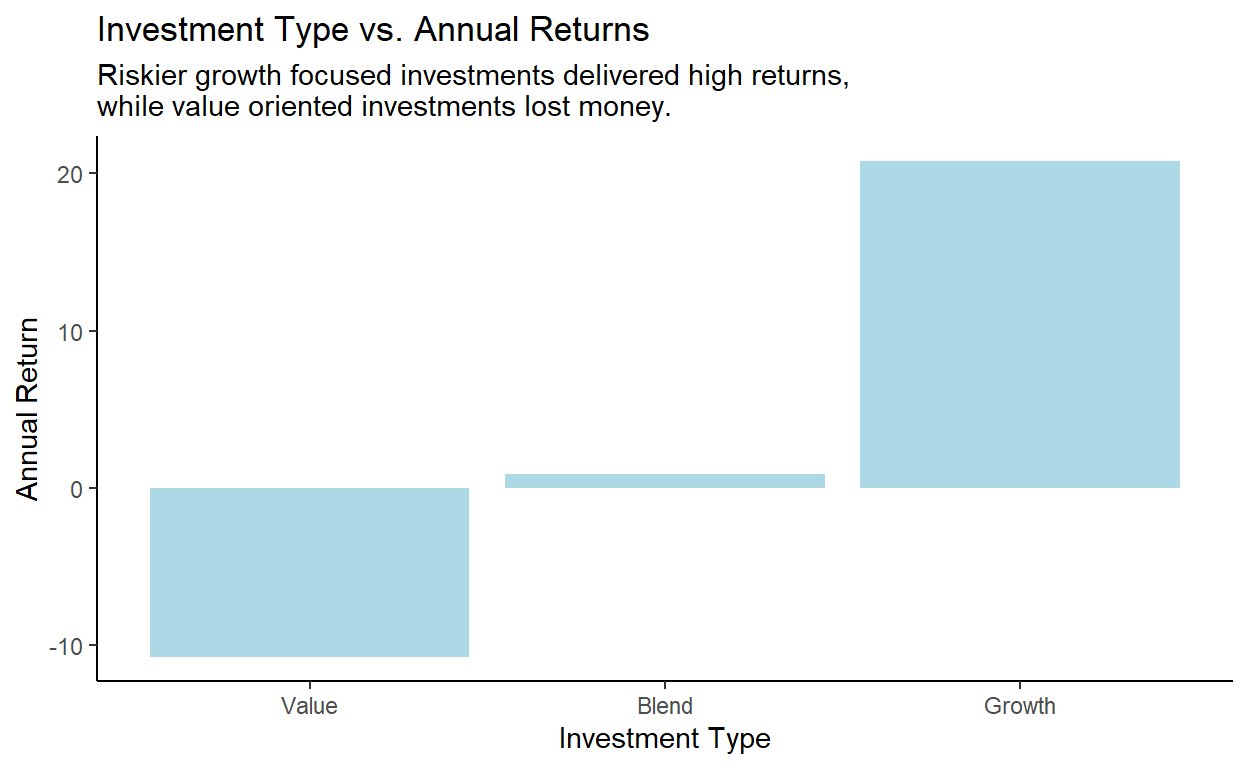
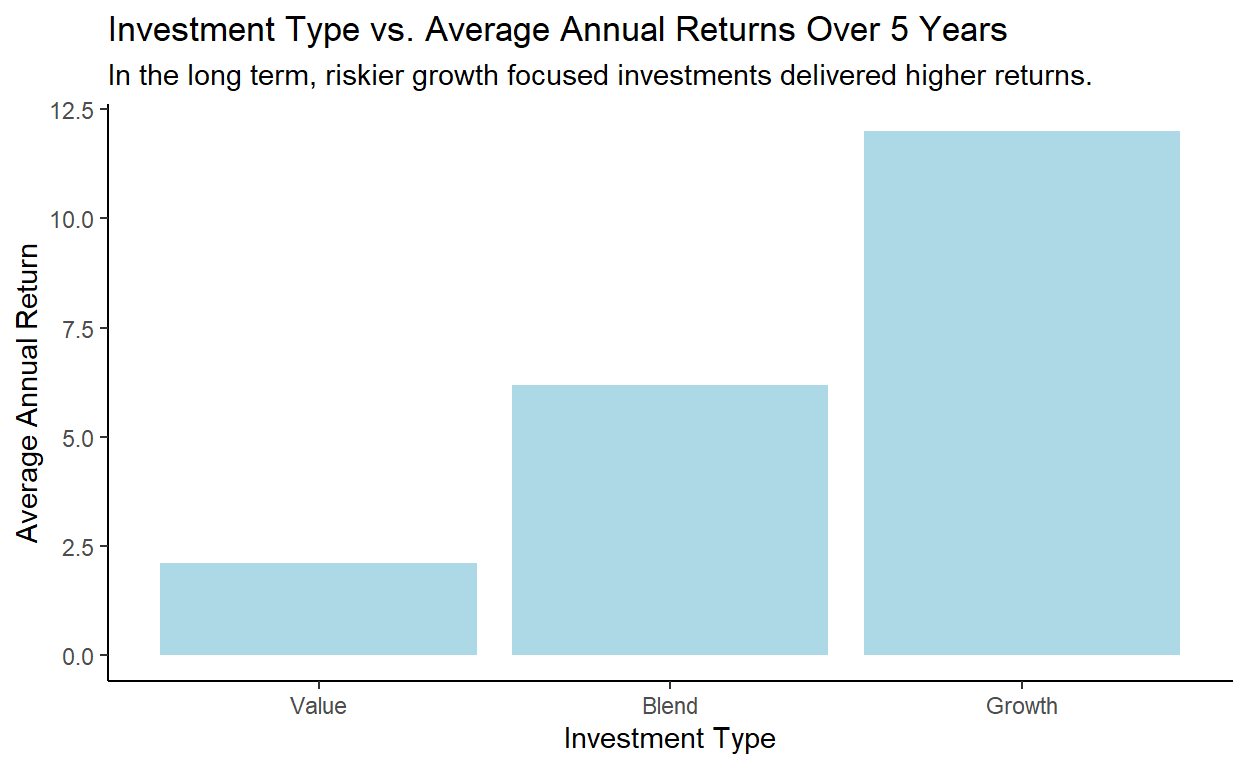
Updated analysis page

diff --git a/docs/funds.html b/docs/funds.html
@@ -86,9 +86,8 @@ code span.wa { color: #5e5e5e; font-style: italic; } /* Warning */
 </style>
 
   <!--radix_placeholder_meta_tags-->
-  <title>Exchange Traded Fund (ETF) Analysis: ETFs</title>
+  <title>Exchange Traded Fund (ETF) Analysis: Investment Analysis of Exchange Traded Funds (ETF)</title>
 
-  <meta property="description" itemprop="description" content="Work in progess."/>
 
 
   <!--  https://schema.org/Article -->
@@ -97,22 +96,20 @@ code span.wa { color: #5e5e5e; font-style: italic; } /* Warning */
   <meta name="article:author" content="Fahim Ahmed"/>
 
   <!--  https://developers.facebook.com/docs/sharing/webmasters#markup -->
-  <meta property="og:title" content="Exchange Traded Fund (ETF) Analysis: ETFs"/>
+  <meta property="og:title" content="Exchange Traded Fund (ETF) Analysis: Investment Analysis of Exchange Traded Funds (ETF)"/>
   <meta property="og:type" content="article"/>
-  <meta property="og:description" content="Work in progess."/>
   <meta property="og:locale" content="en_US"/>
   <meta property="og:site_name" content="Exchange Traded Fund (ETF) Analysis"/>
 
   <!--  https://dev.twitter.com/cards/types/summary -->
   <meta property="twitter:card" content="summary"/>
-  <meta property="twitter:title" content="Exchange Traded Fund (ETF) Analysis: ETFs"/>
-  <meta property="twitter:description" content="Work in progess."/>
+  <meta property="twitter:title" content="Exchange Traded Fund (ETF) Analysis: Investment Analysis of Exchange Traded Funds (ETF)"/>
 
   <!--/radix_placeholder_meta_tags-->
   <!--radix_placeholder_rmarkdown_metadata-->
 
   <script type="text/json" id="radix-rmarkdown-metadata">
-  {"type":"list","attributes":{"names":{"type":"character","attributes":{},"value":["title","description","author","date","output"]}},"value":[{"type":"character","attributes":{},"value":["ETFs"]},{"type":"character","attributes":{},"value":["Work in progess.\n"]},{"type":"list","attributes":{},"value":[{"type":"list","attributes":{"names":{"type":"character","attributes":{},"value":["name","url"]}},"value":[{"type":"character","attributes":{},"value":["Fahim Ahmed"]},{"type":"NULL"}]}]},{"type":"character","attributes":{},"value":["2021-06-24"]},{"type":"character","attributes":{},"value":["distill::distill_article"]}]}
+  {"type":"list","attributes":{"names":{"type":"character","attributes":{},"value":["title","author","date","output"]}},"value":[{"type":"character","attributes":{},"value":["Investment Analysis of Exchange Traded Funds (ETF)"]},{"type":"list","attributes":{},"value":[{"type":"list","attributes":{"names":{"type":"character","attributes":{},"value":["name","url"]}},"value":[{"type":"character","attributes":{},"value":["Fahim Ahmed"]},{"type":"NULL"}]}]},{"type":"character","attributes":{},"value":["2021-06-24"]},{"type":"character","attributes":{},"value":["distill::distill_article"]}]}
   </script>
   <!--/radix_placeholder_rmarkdown_metadata-->
   <!--radix_placeholder_navigation_in_header-->
@@ -2057,7 +2054,7 @@ code span.wa { color: #5e5e5e; font-style: italic; } /* Warning */
 <!--radix_placeholder_front_matter-->
 
 <script id="distill-front-matter" type="text/json">
-{"title":"ETFs","description":"Work in progess.","authors":[{"author":"Fahim Ahmed","authorURL":"#","affiliation":"&nbsp;","affiliationURL":"#","orcidID":""}],"publishedDate":"2021-06-24T00:00:00.000-04:00","citationText":"Ahmed, 2021"}
+{"title":"Investment Analysis of Exchange Traded Funds (ETF)","authors":[{"author":"Fahim Ahmed","authorURL":"#","affiliation":"&nbsp;","affiliationURL":"#","orcidID":""}],"publishedDate":"2021-06-24T00:00:00.000-04:00","citationText":"Ahmed, 2021"}
 </script>
 
 <!--/radix_placeholder_front_matter-->
@@ -2080,10 +2077,10 @@ code span.wa { color: #5e5e5e; font-style: italic; } /* Warning */
 <!--/radix_placeholder_site_before_body-->
 
 <div class="d-title">
-<h1>ETFs</h1>
+<h1>Investment Analysis of Exchange Traded Funds (ETF)</h1>
 <!--radix_placeholder_categories-->
 <!--/radix_placeholder_categories-->
-<p><p>Work in progess.</p></p>
+
 </div>
 
 <div class="d-byline">
@@ -2093,40 +2090,42 @@ code span.wa { color: #5e5e5e; font-style: italic; } /* Warning */
 </div>
 
 <div class="d-article">
-<p>What ETF manager would provide the highest returns?</p>
+<h1 id="what-etf-manager-would-provide-the-highest-returns">What ETF manager would provide the highest returns?</h1>
 <div class="layout-chunk" data-layout="l-body">
 <p><img src="funds_files/figure-html5/unnamed-chunk-2-1.png" width="624" /></p>
 </div>
-<p>Additional Finding</p>
+<p>ARK ETF Trust outperformed the other ETF funds in the past year. This fund focuses on disruptive innovation.</p>
+<h1 id="does-the-funds-yield-correlate-to-higher-returns">Does the fund’s yield correlate to higher returns?</h1>
 <div class="layout-chunk" data-layout="l-body">
 <p><img src="funds_files/figure-html5/unnamed-chunk-3-1.png" width="624" /></p>
 </div>
-<p>A fund’s yield (the income generated to investors through interest and dividends) has a negative correlation with returns. This is understandable, as often times a company the fund is invested in would offer dividends to make up for the lack of returns.</p>
+<p>A form of investing called dividend investing has been on the rise lately, with people investing to instead maximize dividends. A fund’s yield (the income generated to investors through interest and dividends) has a negative correlation with returns. This is understandable, as often times a company the fund is invested in would offer dividends to make up for the lack of returns.</p>
 <div class="layout-chunk" data-layout="l-body">
 
 </div>
+<h1 id="what-sector-performed-the-best-in-the-long-term">What sector performed the best in the long-term?</h1>
 <div class="layout-chunk" data-layout="l-body">
-
+<p><img src="funds_files/figure-html5/unnamed-chunk-5-1.png" width="624" /></p>
 </div>
+<p>In the shorterm many sectors were less than or near 0% returns. A few (most notably, the technology sector) surpassed the benchmark of the S&amp;P 500 (the blue line, ~10% returns), which tracks the performance of the top 500 companies.</p>
+<h1 id="what-sector-performed-the-best-in-the-long-term-1">What sector performed the best in the long-term?</h1>
 <div class="layout-chunk" data-layout="l-body">
 <p><img src="funds_files/figure-html5/unnamed-chunk-6-1.png" width="624" /></p>
 </div>
-<p>In the shorterm many sectors were less than or near 0% returns. A few (most notably, the technology sector) surpassed the benchmark of the S&amp;P 500, which tracks the performance of the top 500 companies.</p>
+<p>In the longterm most sectors had positive returns, with the exception being the Energy sector. However, compared to the average returns of the S&amp;P 500 (~10%), most sectors lagged behind with the exception being the technology sector. This shows that most ETFs often fail to meet the returns of the S&amp;P 500, and that it is often a good idea to research about the S&amp;P 500.</p>
+<h1 id="how-did-growth-etfs-compare-to-value-etfs-in-the-short-term">How did growth ETFs compare to value ETFs in the short-term?</h1>
 <div class="layout-chunk" data-layout="l-body">
 <p><img src="funds_files/figure-html5/unnamed-chunk-7-1.png" width="624" /></p>
 </div>
-<p>In the longterm most sectors had positive returns, with the exception being the Energy sector. However, compared to the average returns of the S&amp;P 500 (~10%), most sectors lagged behind with the exception being the technology sector. This shows that most ETFs often fail to meet the returns of the S&amp;P 500, and that it is often a good idea to research about the S&amp;P 500.</p>
+<p>Growth focused investing focuses on investments that have the future potential to outperform the overall market. Value focused investing focuses on investments that are currently undervalued, trading below what they are really worth. During the past year, value ETFs has negative returns while growth ETFs had positive returns.</p>
+<h1 id="how-did-growth-etfs-compare-to-value-etfs-in-the-long-term">How did growth ETFs compare to value ETFs in the long-term?</h1>
 <div class="layout-chunk" data-layout="l-body">
 <p><img src="funds_files/figure-html5/unnamed-chunk-8-1.png" width="624" /></p>
 </div>
-<div class="layout-chunk" data-layout="l-body">
-<p><img src="funds_files/figure-html5/unnamed-chunk-9-1.png" width="624" /></p>
-</div>
-<div class="layout-chunk" data-layout="l-body">
-
-</div>
-<p>Overall, the investments that have best performed in the past year were growth focused investments in the technology sector. Due to the pandemic, there was immense growth in the technology sector during the past year as people moved to a digital environment. However, the technology sector still outperformed the rest of the sectors during the past 5 years.</p>
-<p>Historical returns do not guarantee future returns.</p>
+<p>Averaging out the past 5 years, value ETFs had next to no returns allowing it to only hedge against inflation, while growth ETFs had significantly higher returns.</p>
+<h1 id="what-etf-investments-performed-the-best">What ETF investments performed the best?</h1>
+<p>Overall, the ETFs that have best performed in the past year were growth focused investments in the technology sector. Due to the pandemic, there was immense growth in the technology sector during the past year as people moved to a digital environment. However, the technology sector still outperformed the rest of the sectors during the past 5 years. ARK was a popular fund that created many high-performing ETFs, beating the returns of other funds.</p>
+<p><strong>Historical returns do not guarantee future returns.</strong> This analysis is meant for educational purposes only, and should not be taken as financial advice.</p>
 <div class="sourceCode" id="cb1"><pre class="sourceCode r distill-force-highlighting-css"><code class="sourceCode r"></code></pre></div>
 <!--radix_placeholder_article_footer-->
 <!--/radix_placeholder_article_footer-->

diff --git a/docs/index.html b/docs/index.html
@@ -86,14 +86,14 @@ code span.wa { color: #5e5e5e; font-style: italic; } /* Warning */
 </style>
 
   <!--radix_placeholder_meta_tags-->
-  <title>Exchange Traded Fund (ETF) Analysis: Exchange Traded Fund (ETF) Investment Analysis</title>
+  <title>Exchange Traded Fund (ETF) Analysis: Investment Analysis of Exchange Traded Funds (ETF)</title>
 
   <meta property="description" itemprop="description" content="In this website, I will be analysing ETFs. &lt;br /&gt; Project dataset: https://www.kaggle.com/stefanoleone992/mutual-funds-and-etfs &lt;br /&gt; The analysis can be found in the Analysis tab."/>
 
 
 
   <!--  https://developers.facebook.com/docs/sharing/webmasters#markup -->
-  <meta property="og:title" content="Exchange Traded Fund (ETF) Analysis: Exchange Traded Fund (ETF) Investment Analysis"/>
+  <meta property="og:title" content="Exchange Traded Fund (ETF) Analysis: Investment Analysis of Exchange Traded Funds (ETF)"/>
   <meta property="og:type" content="article"/>
   <meta property="og:description" content="In this website, I will be analysing ETFs. &lt;br /&gt; Project dataset: https://www.kaggle.com/stefanoleone992/mutual-funds-and-etfs &lt;br /&gt; The analysis can be found in the Analysis tab."/>
   <meta property="og:locale" content="en_US"/>
@@ -101,14 +101,14 @@ code span.wa { color: #5e5e5e; font-style: italic; } /* Warning */
 
   <!--  https://dev.twitter.com/cards/types/summary -->
   <meta property="twitter:card" content="summary"/>
-  <meta property="twitter:title" content="Exchange Traded Fund (ETF) Analysis: Exchange Traded Fund (ETF) Investment Analysis"/>
+  <meta property="twitter:title" content="Exchange Traded Fund (ETF) Analysis: Investment Analysis of Exchange Traded Funds (ETF)"/>
   <meta property="twitter:description" content="In this website, I will be analysing ETFs. &lt;br /&gt; Project dataset: https://www.kaggle.com/stefanoleone992/mutual-funds-and-etfs &lt;br /&gt; The analysis can be found in the Analysis tab."/>
 
   <!--/radix_placeholder_meta_tags-->
   <!--radix_placeholder_rmarkdown_metadata-->
 
   <script type="text/json" id="radix-rmarkdown-metadata">
-  {"type":"list","attributes":{"names":{"type":"character","attributes":{},"value":["title","description","site"]}},"value":[{"type":"character","attributes":{},"value":["Exchange Traded Fund (ETF) Investment Analysis"]},{"type":"character","attributes":{},"value":["In this website, I will be analysing ETFs. <br /> Project dataset: https://www.kaggle.com/stefanoleone992/mutual-funds-and-etfs <br /> The analysis can be found in the Analysis tab.\n"]},{"type":"character","attributes":{},"value":["distill::distill_website"]}]}
+  {"type":"list","attributes":{"names":{"type":"character","attributes":{},"value":["title","description","site"]}},"value":[{"type":"character","attributes":{},"value":["Investment Analysis of Exchange Traded Funds (ETF)"]},{"type":"character","attributes":{},"value":["In this website, I will be analysing ETFs. <br /> Project dataset: https://www.kaggle.com/stefanoleone992/mutual-funds-and-etfs <br /> The analysis can be found in the Analysis tab.\n"]},{"type":"character","attributes":{},"value":["distill::distill_website"]}]}
   </script>
   <!--/radix_placeholder_rmarkdown_metadata-->
   <!--radix_placeholder_navigation_in_header-->
@@ -2053,7 +2053,7 @@ code span.wa { color: #5e5e5e; font-style: italic; } /* Warning */
 <!--radix_placeholder_front_matter-->
 
 <script id="distill-front-matter" type="text/json">
-{"title":"Exchange Traded Fund (ETF) Investment Analysis","description":"In this website, I will be analysing ETFs. <br /> Project dataset: https://www.kaggle.com/stefanoleone992/mutual-funds-and-etfs <br /> The analysis can be found in the Analysis tab.","authors":[]}
+{"title":"Investment Analysis of Exchange Traded Funds (ETF)","description":"In this website, I will be analysing ETFs. <br /> Project dataset: https://www.kaggle.com/stefanoleone992/mutual-funds-and-etfs <br /> The analysis can be found in the Analysis tab.","authors":[]}
 </script>
 
 <!--/radix_placeholder_front_matter-->
@@ -2076,7 +2076,7 @@ code span.wa { color: #5e5e5e; font-style: italic; } /* Warning */
 <!--/radix_placeholder_site_before_body-->
 
 <div class="d-title">
-<h1>Exchange Traded Fund (ETF) Investment Analysis</h1>
+<h1>Investment Analysis of Exchange Traded Funds (ETF)</h1>
 <!--radix_placeholder_categories-->
 <!--/radix_placeholder_categories-->
 <p><p>In this website, I will be analysing ETFs. <br /> Project dataset: <a href="https://www.kaggle.com/stefanoleone992/mutual-funds-and-etfs" class="uri">https://www.kaggle.com/stefanoleone992/mutual-funds-and-etfs</a> <br /> The analysis can be found in the Analysis tab.</p></p>
